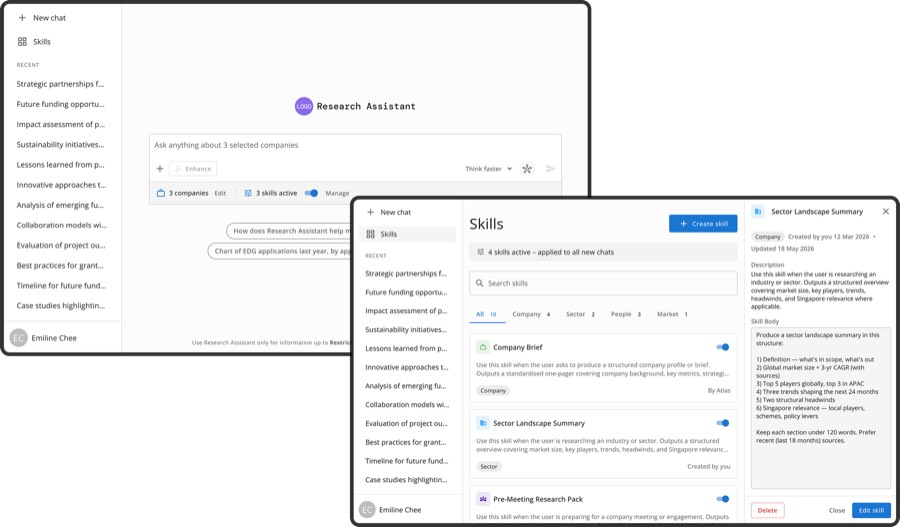
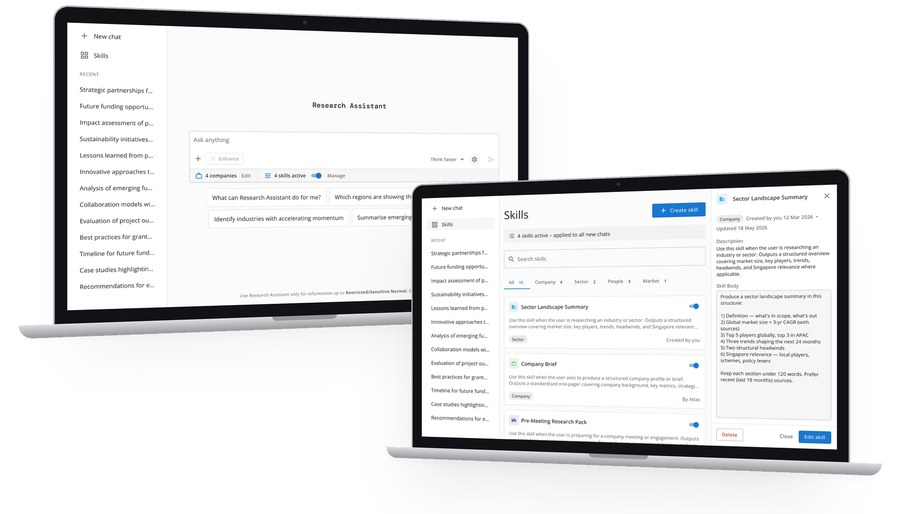
New angled hero image for Research Assistant (draft)
Chat home and Skills library on two angled laptops; homepage card
regenerated to match. Stays on drafts until the case study is published.

Changed region(s): [[0.0, 0.0, 1.0, 1.0], [0.3111, 0.1868, 0.4667, 0.2179], [0.7156, 0.5292, 0.7467, 0.5603]]

diff --git a/case-studies/research-assistant.html b/case-studies/research-assistant.html
@@ -51,7 +51,7 @@
     </div>
 
     <div class="ed-hero">
-      <img src="../assets/img/research-assistant.png" alt="Research Assistant chat home with 3 companies and 3 skills active, overlapped by the Skills library and a skill detail drawer">
+      <img src="../assets/img/research-assistant.png" alt="Two angled laptops: the Research Assistant chat home behind, and the Skills library with a skill detail drawer in front">
     </div>
   </header>
 
